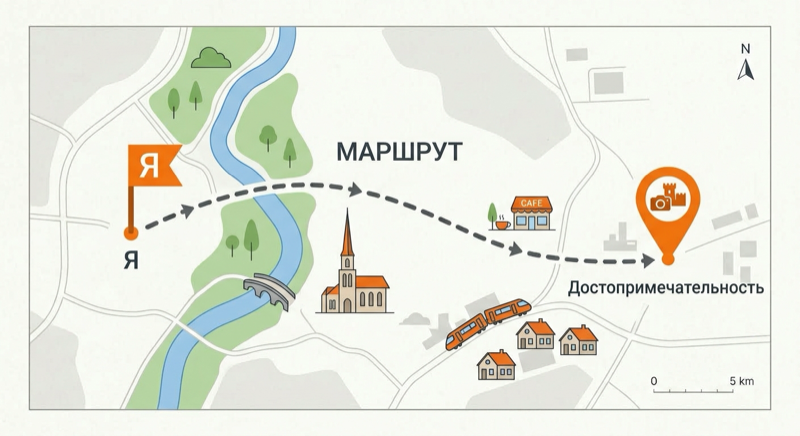
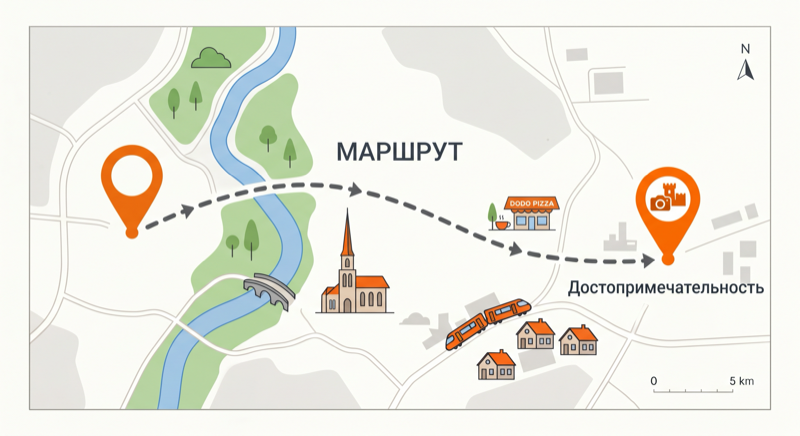
New route map image, remove CTA from card 6

diff --git a/index.html b/index.html
@@ -1565,10 +1565,6 @@
                 <div class="pizza-card">
                         <h3>Готовы к первому маршруту?</h3>
                     <img src="route-map.png" alt="Маршрут" class="card-img">
-                    <button class="card-cta" onclick="event.stopPropagation(); startJourney();">
-                        Начать путешествие
-                        <svg width="20" height="20" viewBox="0 0 24 24" fill="none" stroke="currentColor" stroke-width="2.5" stroke-linecap="round" stroke-linejoin="round"><path d="M5 12h14M12 5l7 7-7 7"/></svg>
-                    </button>
                 </div>
             </div>
         </div>
